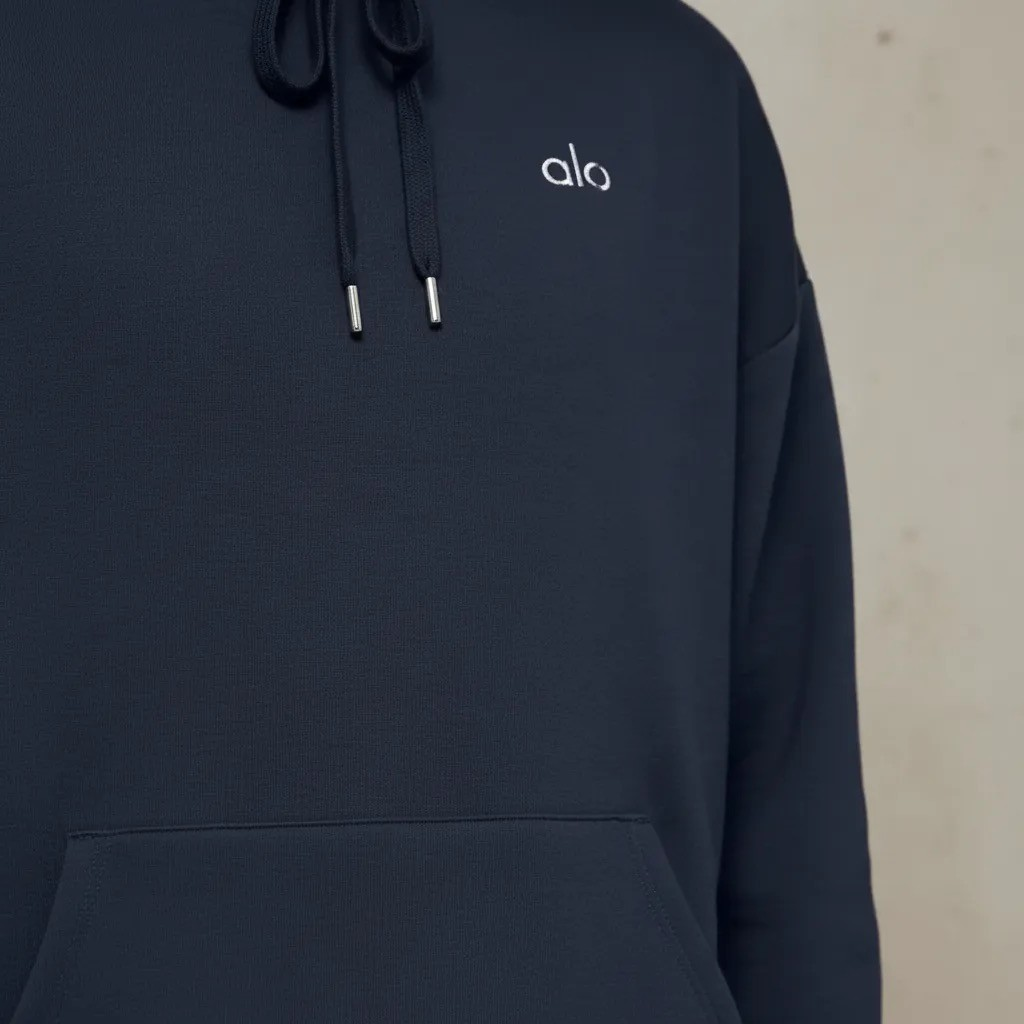
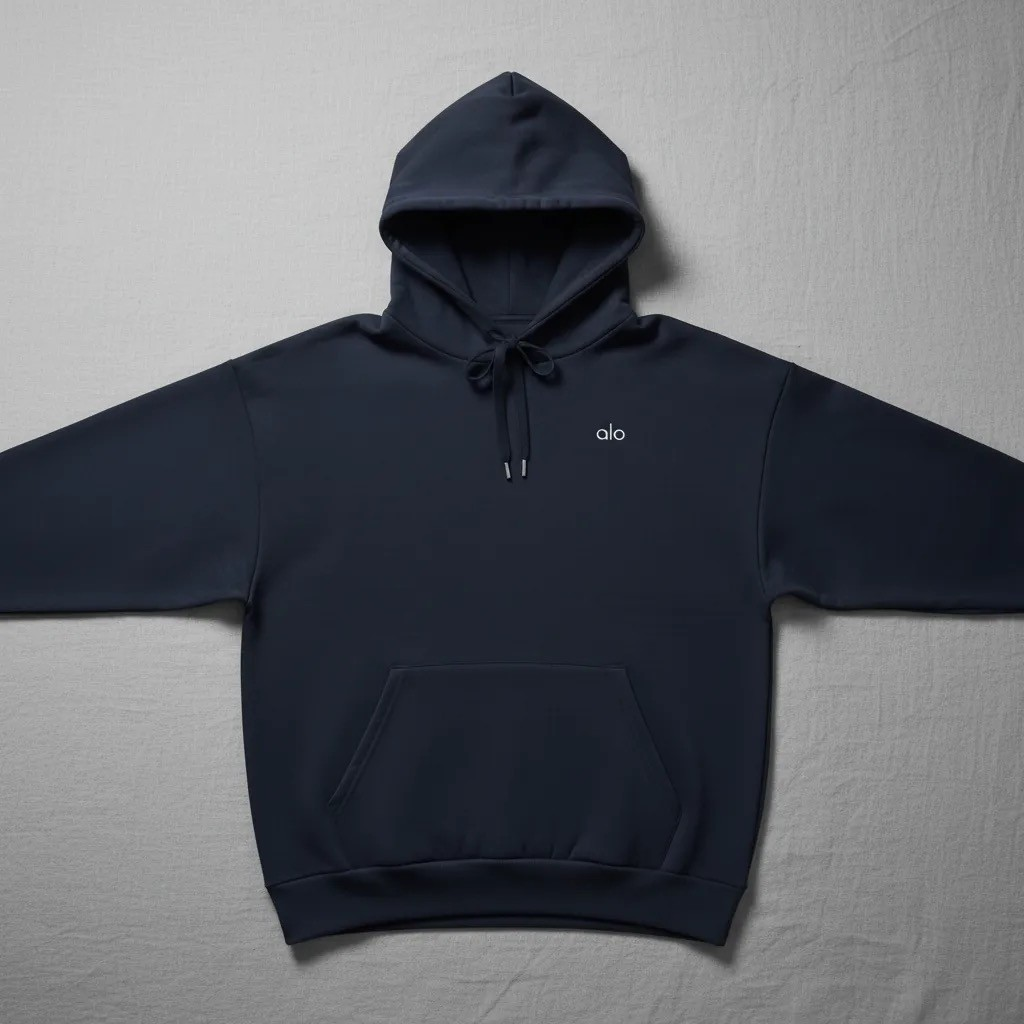
Use AI editorial photos as primary product images
Add 4 coordinated studio editorial shots (Black/Grey/Navy/Espresso),
generated via Gemini 3 Pro Image from the real product photos so the
'alo' logo and exact colors are preserved. Set each as the color's
primary image and demote the previous shots into the gallery.

diff --git a/store/management/commands/alo_photos.py b/store/management/commands/alo_photos.py
@@ -23,8 +23,9 @@ from store.models import Product, ProductImage
 # spec: ("full", ruta)  ó  ("crop", ruta, (x0,y0,x1,y1))
 CONFIG = {
     "hoodie-alo-black": {
-        "primary": "products/colors/mute-black-model.jpg",
-        "gallery": [("full", "products/colors/hoodie-alo-black-clean.jpg"),
+        "primary": "products/editorial/black.jpg",
+        "gallery": [("full", "products/colors/mute-black-model.jpg"),
+                    ("full", "products/colors/hoodie-alo-black-clean.jpg"),
                     ("full", "products/gallery/black-4.jpeg")],
         "features": {
             "Tela premium":            ("full", "products/colors/hoodie-alo-black-clean.jpg"),
@@ -35,8 +36,9 @@ CONFIG = {
         },
     },
     "hoodie-alo-navy": {
-        "primary": "products/colors/mute-navy-model.jpg",
-        "gallery": [("full", "products/gallery/mute-navy-flat.jpg"),
+        "primary": "products/editorial/navy.jpg",
+        "gallery": [("full", "products/colors/mute-navy-model.jpg"),
+                    ("full", "products/gallery/mute-navy-flat.jpg"),
                     ("full", "products/gallery/mute-navy-detail.jpg")],
         "features": {
             "Tela premium":            ("full", "products/gallery/mute-navy-flat.jpg"),
@@ -47,8 +49,9 @@ CONFIG = {
         },
     },
     "hoodie-alo-grey": {
-        "primary": "products/gallery/grey-2.jpeg",
-        "gallery": [("full", "products/colors/hoodie-alo-grey-clean.jpg"),
+        "primary": "products/editorial/grey.jpg",
+        "gallery": [("full", "products/gallery/grey-2.jpeg"),
+                    ("full", "products/colors/hoodie-alo-grey-clean.jpg"),
                     ("full", "products/gallery/mute-grey-detail.jpg")],
         "features": {
             "Tela premium":            ("full", "products/colors/hoodie-alo-grey-clean.jpg"),
@@ -59,8 +62,9 @@ CONFIG = {
         },
     },
     "hoodie-alo-espresso": {
-        "primary": "products/colors/mute-espresso-model.jpg",
-        "gallery": [("full", "products/colors/espresso.jpg"),
+        "primary": "products/editorial/espresso.jpg",
+        "gallery": [("full", "products/colors/mute-espresso-model.jpg"),
+                    ("full", "products/colors/espresso.jpg"),
                     ("full", "products/gallery/espresso-3.jpeg")],
         "features": {
             "Tela premium":            ("full", "products/colors/espresso.jpg"),
